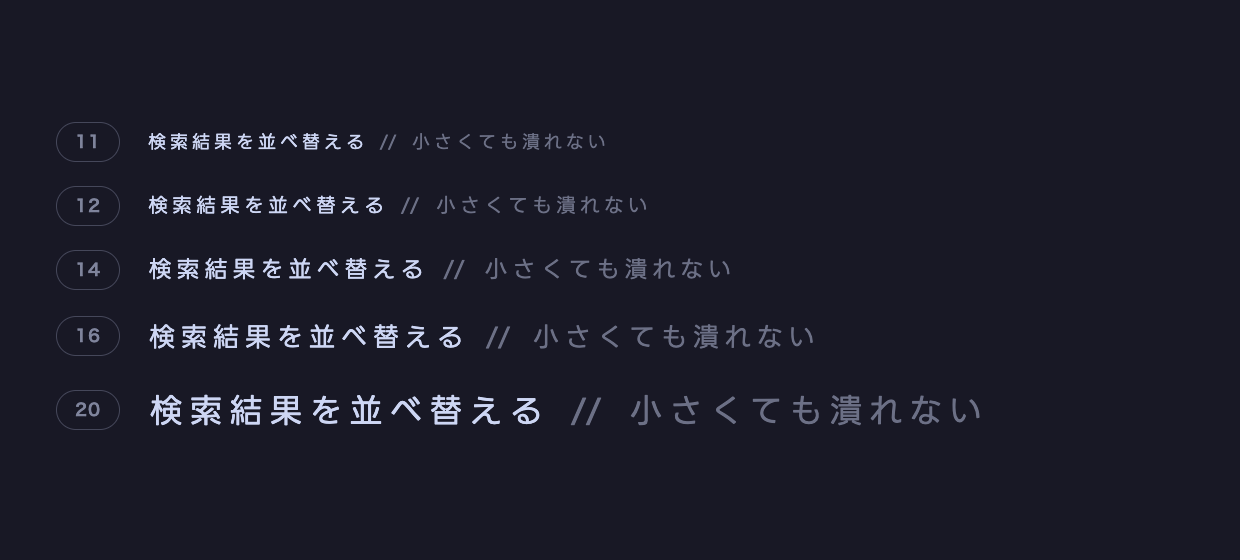
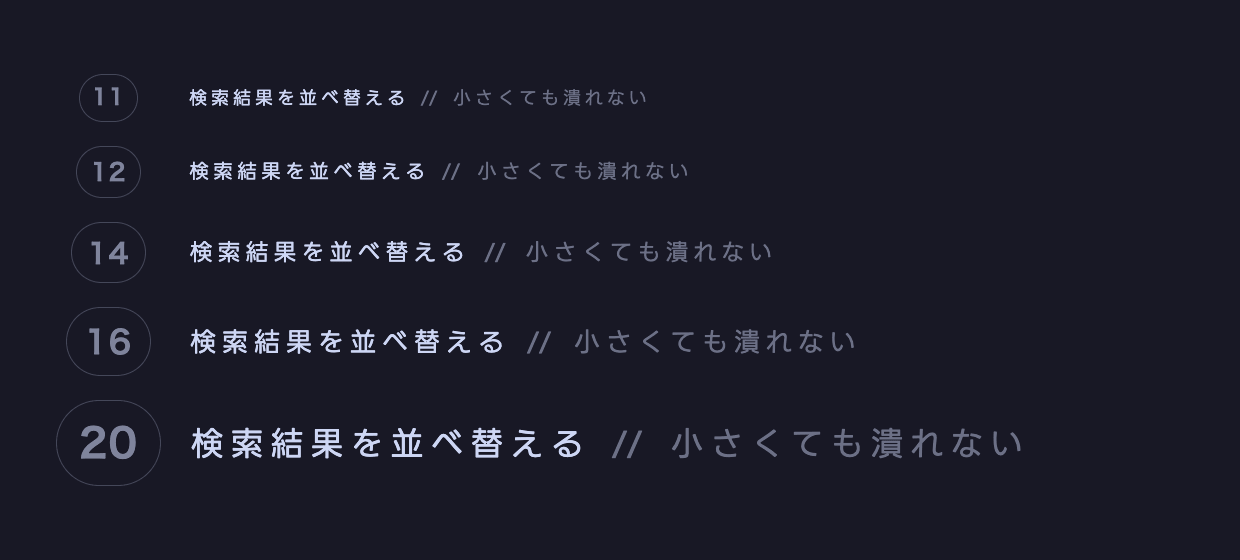
Render each size badge at its row size (fix #26)
Implemented by Codex (gpt-5.6-sol) under PM direction.

diff --git a/docs/images/src/lp/sizes.html b/docs/images/src/lp/sizes.html
@@ -6,21 +6,22 @@
 body {
   width:1240px; height:560px; background:#181825; color:#cdd6f4;
   padding:48px 56px; font-family:"KM", monospace; overflow:hidden;
-  display:flex; flex-direction:column; justify-content:center; gap:24px;
+  display:grid; grid-template-columns:max-content minmax(0, 1fr);
+  align-content:center; align-items:center; column-gap:26px; row-gap:24px;
 }
-.row { display:flex; align-items:center; gap:26px; }
-pre { font-family:inherit; white-space:pre; line-height:1.4; }
+.row { display:contents; }
+pre { font-family:inherit; font-size:var(--size); white-space:pre; line-height:1.4; }
 .c { color:#6c7086; }
 .badge {
-  font-family:-apple-system,sans-serif; font-size:17px; font-weight:600;
-  letter-spacing:1px; width:64px; text-align:center; padding:6px 0;
+  font-family:-apple-system,sans-serif; font-size:var(--size); font-weight:600;
+  letter-spacing:1px; text-align:center; padding:.3em .55em; justify-self:center;
   border-radius:999px; border:1px solid #45475a; color:#7f849c; flex:none;
 }
 </style>
 <body>
-<div class="row"><div class="badge">11</div><pre style="font-size:22px">検索結果を並べ替える <span class="c">// 小さくても潰れない</span></pre></div>
-<div class="row"><div class="badge">12</div><pre style="font-size:24px">検索結果を並べ替える <span class="c">// 小さくても潰れない</span></pre></div>
-<div class="row"><div class="badge">14</div><pre style="font-size:28px">検索結果を並べ替える <span class="c">// 小さくても潰れない</span></pre></div>
-<div class="row"><div class="badge">16</div><pre style="font-size:32px">検索結果を並べ替える <span class="c">// 小さくても潰れない</span></pre></div>
-<div class="row"><div class="badge">20</div><pre style="font-size:40px">検索結果を並べ替える <span class="c">// 小さくても潰れない</span></pre></div>
+<div class="row" style="--size:22px"><div class="badge">11</div><pre>検索結果を並べ替える <span class="c">// 小さくても潰れない</span></pre></div>
+<div class="row" style="--size:24px"><div class="badge">12</div><pre>検索結果を並べ替える <span class="c">// 小さくても潰れない</span></pre></div>
+<div class="row" style="--size:28px"><div class="badge">14</div><pre>検索結果を並べ替える <span class="c">// 小さくても潰れない</span></pre></div>
+<div class="row" style="--size:32px"><div class="badge">16</div><pre>検索結果を並べ替える <span class="c">// 小さくても潰れない</span></pre></div>
+<div class="row" style="--size:40px"><div class="badge">20</div><pre>検索結果を並べ替える <span class="c">// 小さくても潰れない</span></pre></div>
 </body>